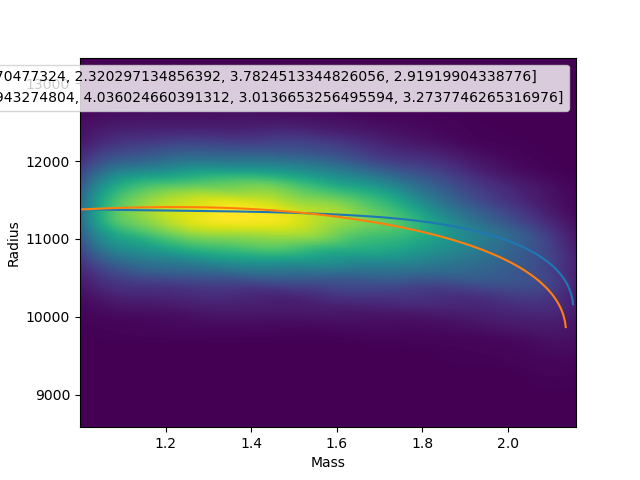
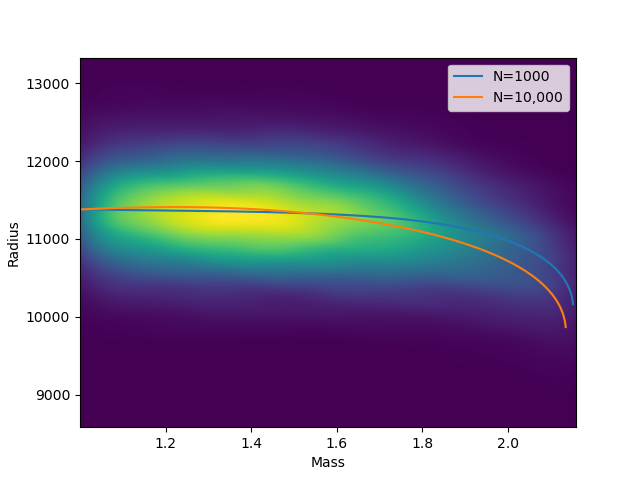
Test 2 on distribution plot

Changed region(s): [[0.0, 0.125, 0.9062, 0.25]]

diff --git a/integral_stepsize_study.py b/integral_stepsize_study.py
@@ -125,6 +125,6 @@ def plot_parameter_distribution(filename1, filename2, name):
     axes[1,1].axvline(APR4_EPP_g3)
 
     pl.tight_layout()
-    pl.legend(labels=["N=1000","N=10,000"])
+    pl.legend(labels=["N=1,000","N=10,000"])
     pl.savefig("NICER_mock_data/MCMC_results/parameter_plots/parameter_space_{}.png".format(name))
 
